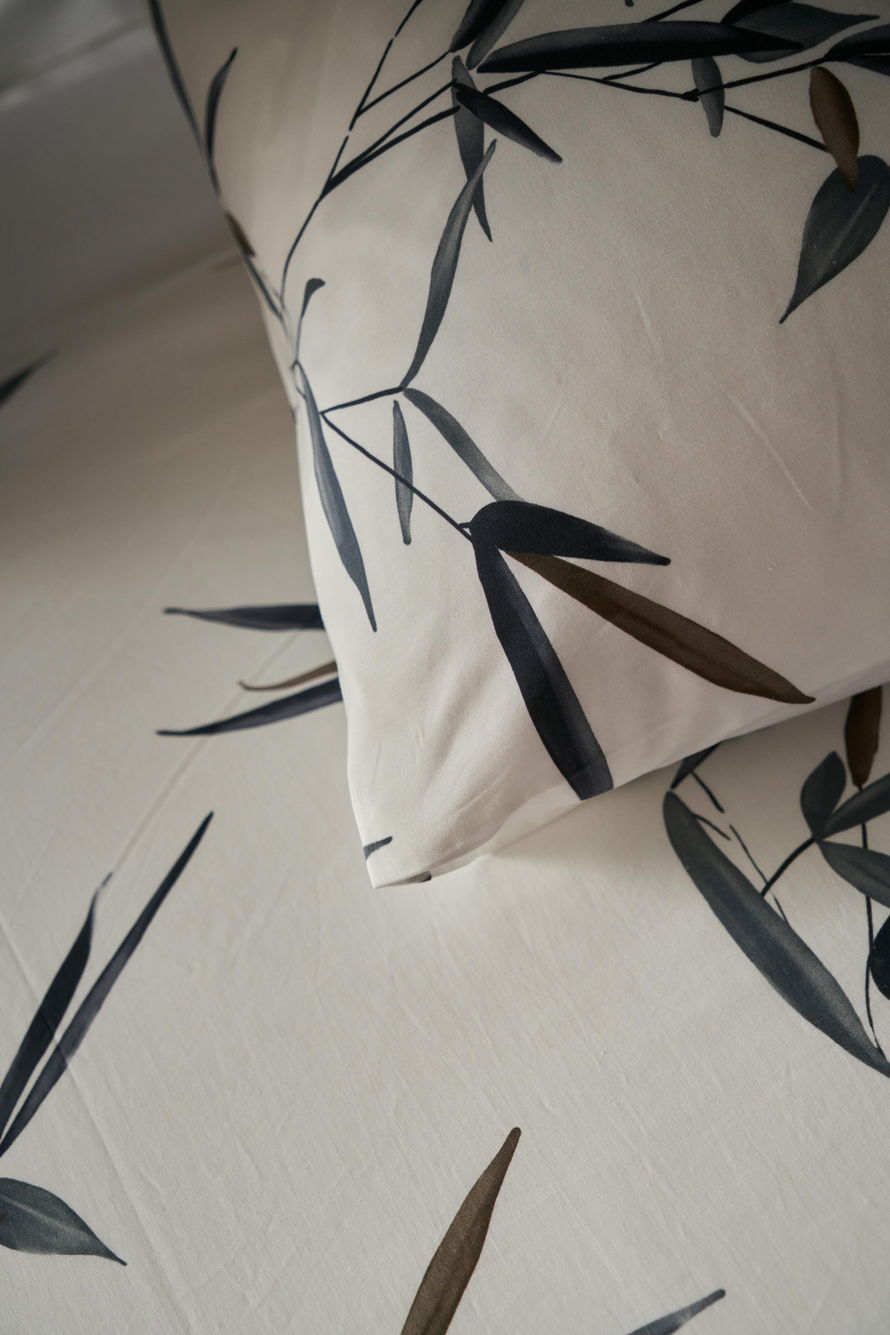
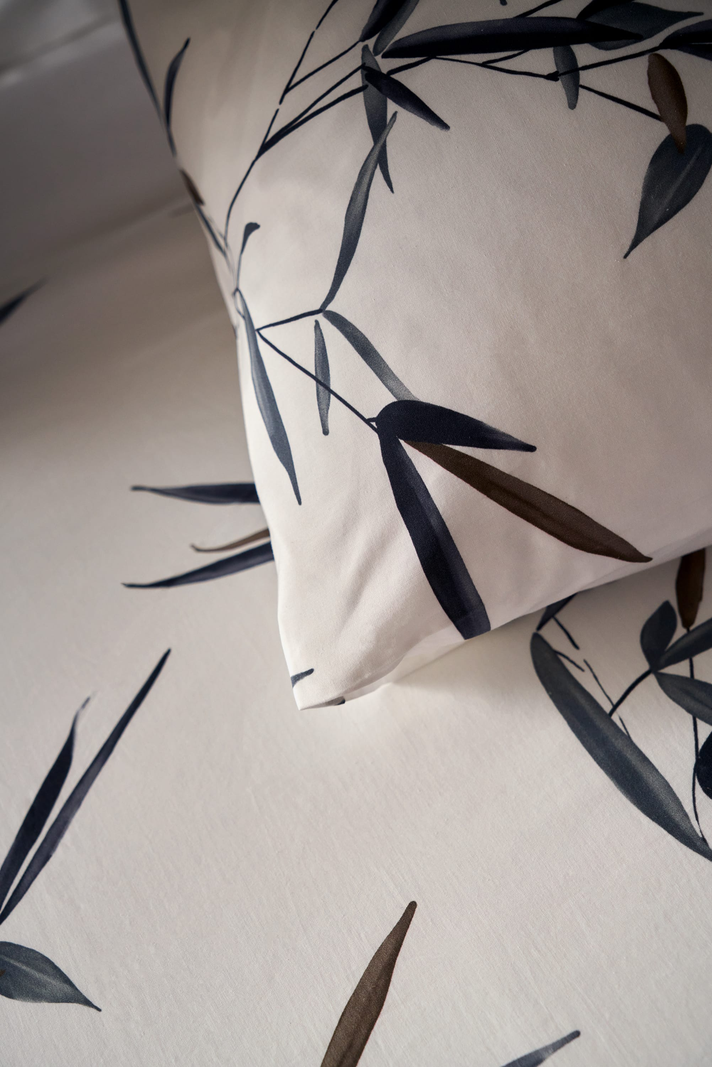
bassols fw22 retouches

diff --git a/Bassols_FW22.html b/Bassols_FW22.html
@@ -103,16 +103,16 @@
 		 		</div>
 
 		 		<p class="textbox ptext marginB">
-		 			<span class="bold">Each product</span> had a variety of photos taken in set angles and zooms, going from full frame to details, to be used in the brand's online store and other online marketplaces. 
+		 			<span class="bold">Each product</span> had a variety of photos taken in set angles and zooms, going from full frame to details to be used in the brand's online store. 
 		 		</p>
 
-		 		<img class="extra_wide marginB border" src="./images/pageimages/bassols/playa/marketplace_2.jpg">
+		 		<img class="marginB border" src="./images/pageimages/bassols/fw22/marketplace_2_fw22.jpg">
 
 		 		<p class="textbox ptext marginB">
-		 			<span class="bold">The variety</span> of sets and photo angles allowed for a fluid combination of items on the collection's page on the online market place, creating a coherent visual for the fall/winter collection as a whole.
+		 			<span class="bold">The variety of sets</span> and photo angles allowed for a fluid combination of items on the collection's page on the online marketplace, creating a coherent visual for the fall/winter collection as a whole.
 		 		</p>
 		 		
-		 		<img class="extra_wide marginB border" src="./images/pageimages/bassols/playa/marketplace.jpg">	 		
+		 		<img class="marginB border" src="./images/pageimages/bassols/fw22/marketplace_fw22.jpg">	 		
 
 		</div>
 	</section>

diff --git a/index.html b/index.html
@@ -96,10 +96,10 @@
 		<div id="service_box">
 			<ul class="s_text">
 				<li>BRAND IDENTITY</li>
-				<li>UX/UI</li>
+				<li>RETOUCHING</li>
 				<li>MOTION GRAPHICS</li>
 				<li>ILLUSTRATION</li>
-				<li>PHOTO EDITING</li>
+				<li>UX/UI</li>
 			</ul>
 			<ul class="s_text">
 				<li>CAMPAIGNS</li>

diff --git a/style/style.css b/style/style.css
@@ -640,7 +640,11 @@ article:hover #bline {
 
 }
 
-.extra_wide {width: 120%;}
+.extra_wide {
+	width: 120%;
+	flex-shrink: 0;
+	object-fit: cover;
+}
 
 .videoH , .videoV {
 	margin: auto;
